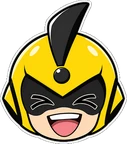
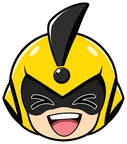
地図クイズ：正解時の顔を背景透明の画像に差しかえ、表情の元画像を更新
Claude-Session: https://claude.ai/code/session_01UQWMRoXjScHpVRNdxcqKXF

diff --git a/apps/japan-map-quiz/index.html b/apps/japan-map-quiz/index.html
@@ -1878,7 +1878,7 @@ function afterAnswer(ok, html, opt = {}) {
     sndOk();
     // 正解のときは、問題文の最後（？のすぐ右）にサッ記マンの超笑顔を小さく出す
     const qEl = sheet.querySelector(".ask .q");
-    if (qEl && !qEl.querySelector(".qface")) qEl.insertAdjacentHTML("beforeend", `\u2060<img class="qface" src="img/face-super.webp?v=1" alt="" aria-hidden="true">`);
+    if (qEl && !qEl.querySelector(".qface")) qEl.insertAdjacentHTML("beforeend", `\u2060<img class="qface" src="img/face-super.webp?v=2" alt="" aria-hidden="true">`);
     if (q.hint) quiz.combo = 0; else { quiz.combo++; quiz.maxCombo = Math.max(quiz.maxCombo, quiz.combo); }
     if (quiz.combo >= 2) { combo.textContent = `${quiz.combo}れんぞく！`; combo.hidden = false; combo.classList.remove("pop"); void combo.offsetWidth; combo.classList.add("pop"); }
     else combo.hidden = true;

diff --git a/apps/japan-map-quiz/src/template.html b/apps/japan-map-quiz/src/template.html
@@ -1878,7 +1878,7 @@ function afterAnswer(ok, html, opt = {}) {
     sndOk();
     // 正解のときは、問題文の最後（？のすぐ右）にサッ記マンの超笑顔を小さく出す
     const qEl = sheet.querySelector(".ask .q");
-    if (qEl && !qEl.querySelector(".qface")) qEl.insertAdjacentHTML("beforeend", `\u2060<img class="qface" src="img/face-super.webp?v=1" alt="" aria-hidden="true">`);
+    if (qEl && !qEl.querySelector(".qface")) qEl.insertAdjacentHTML("beforeend", `\u2060<img class="qface" src="img/face-super.webp?v=2" alt="" aria-hidden="true">`);
     if (q.hint) quiz.combo = 0; else { quiz.combo++; quiz.maxCombo = Math.max(quiz.maxCombo, quiz.combo); }
     if (quiz.combo >= 2) { combo.textContent = `${quiz.combo}れんぞく！`; combo.hidden = false; combo.classList.remove("pop"); void combo.offsetWidth; combo.classList.add("pop"); }
     else combo.hidden = true;

diff --git a/README.md b/README.md
@@ -23,6 +23,7 @@
 
 ## 設計思想とデザインの趣向（日本地図タップドリル）
 
+- 2026-11-20 Claude：正解時のサッ記マンの顔を、持ち主が背景を透明にした画像に差しかえ（表情3枚の元画像も docs/images/ を透明版に更新）
 - 2026-11-20 Claude：地図クイズで正解したとき、問題文の「？」のすぐ右にサッ記マンの超笑顔を小さく出すように（全コース）。顔の元画像は docs/images/ に移した
 - 2026-11-20 Claude：入口ページ（https://sakki-man.vercel.app/）をタイトル画面に。持ち主の絵「タイトル画面1F」（元画像は docs/images/、公開用は site/title-1f.webp）を背景にし、下のあいた所に「はじめる」ボタン（ピンク #FF4FA3 の線の角丸とピンクの文字）。押すと日本地図タップドリルへ
 - 2026-11-20 Claude：地図クイズの国宝・世界遺産で、答えのあとに名前の下へ解説（3文以内）を出すように。27か所の解説を書きなおした。けっかの一言を「全問正解！ヒントなしでマスターを目指そう！」に
